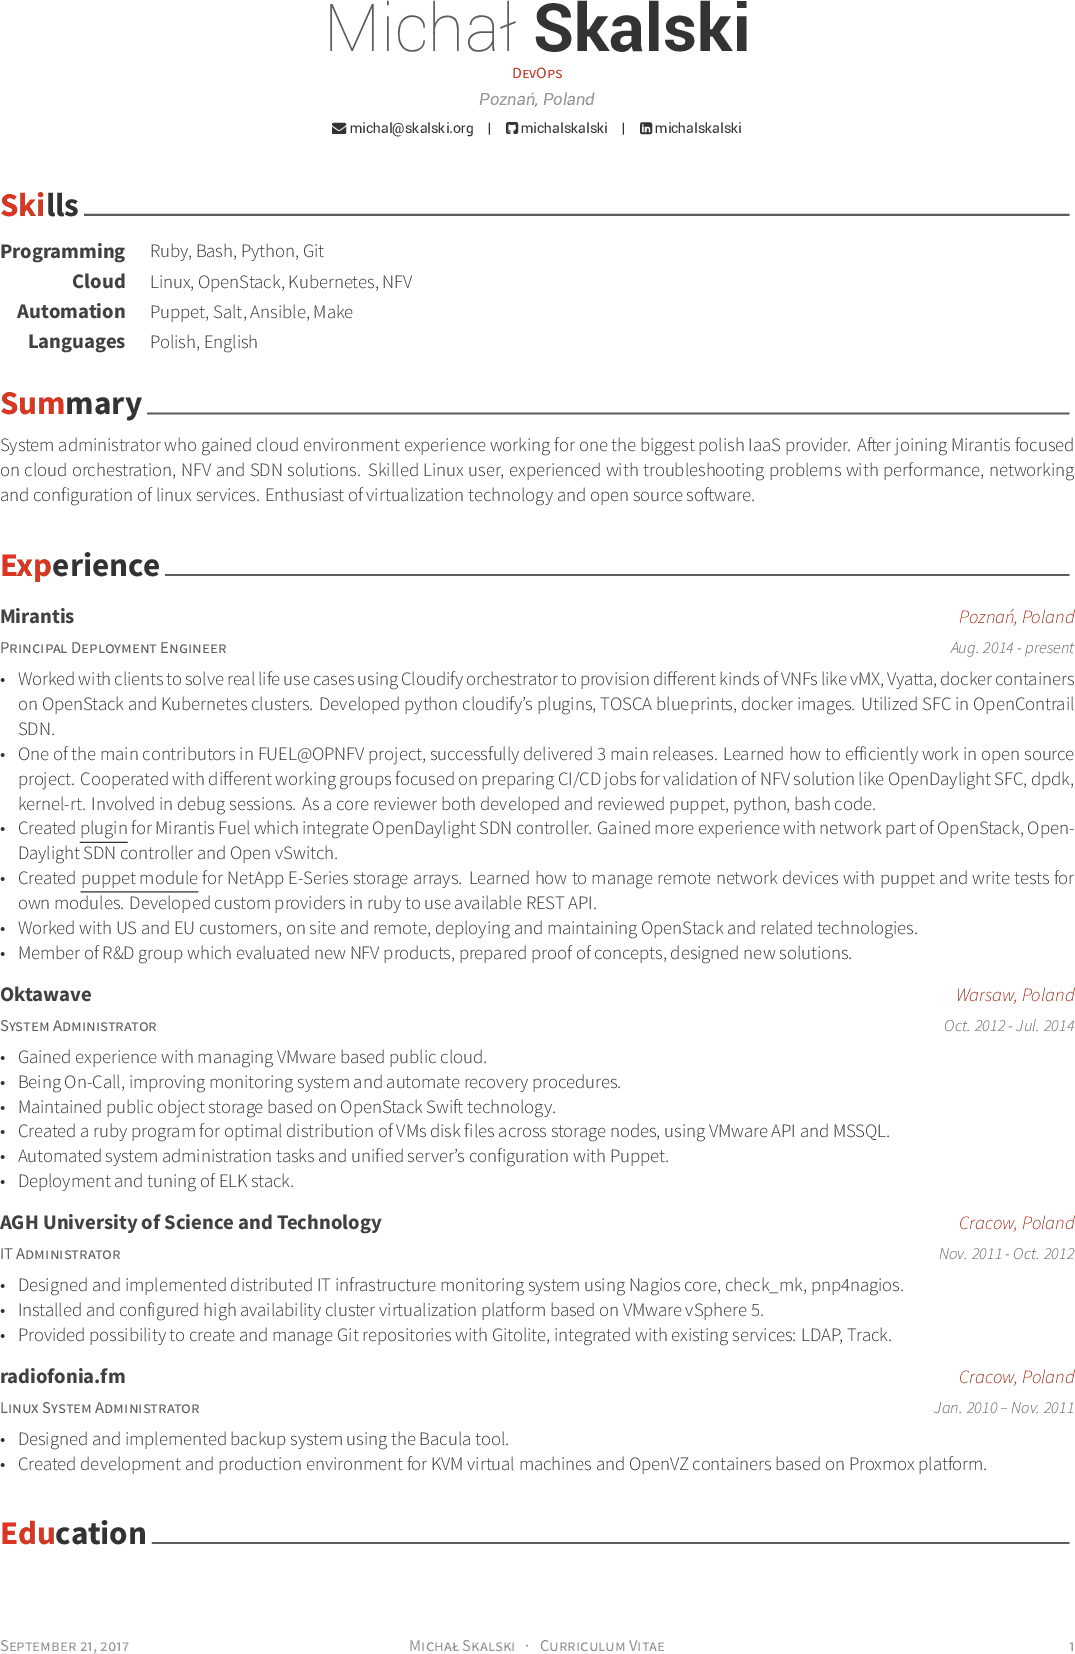
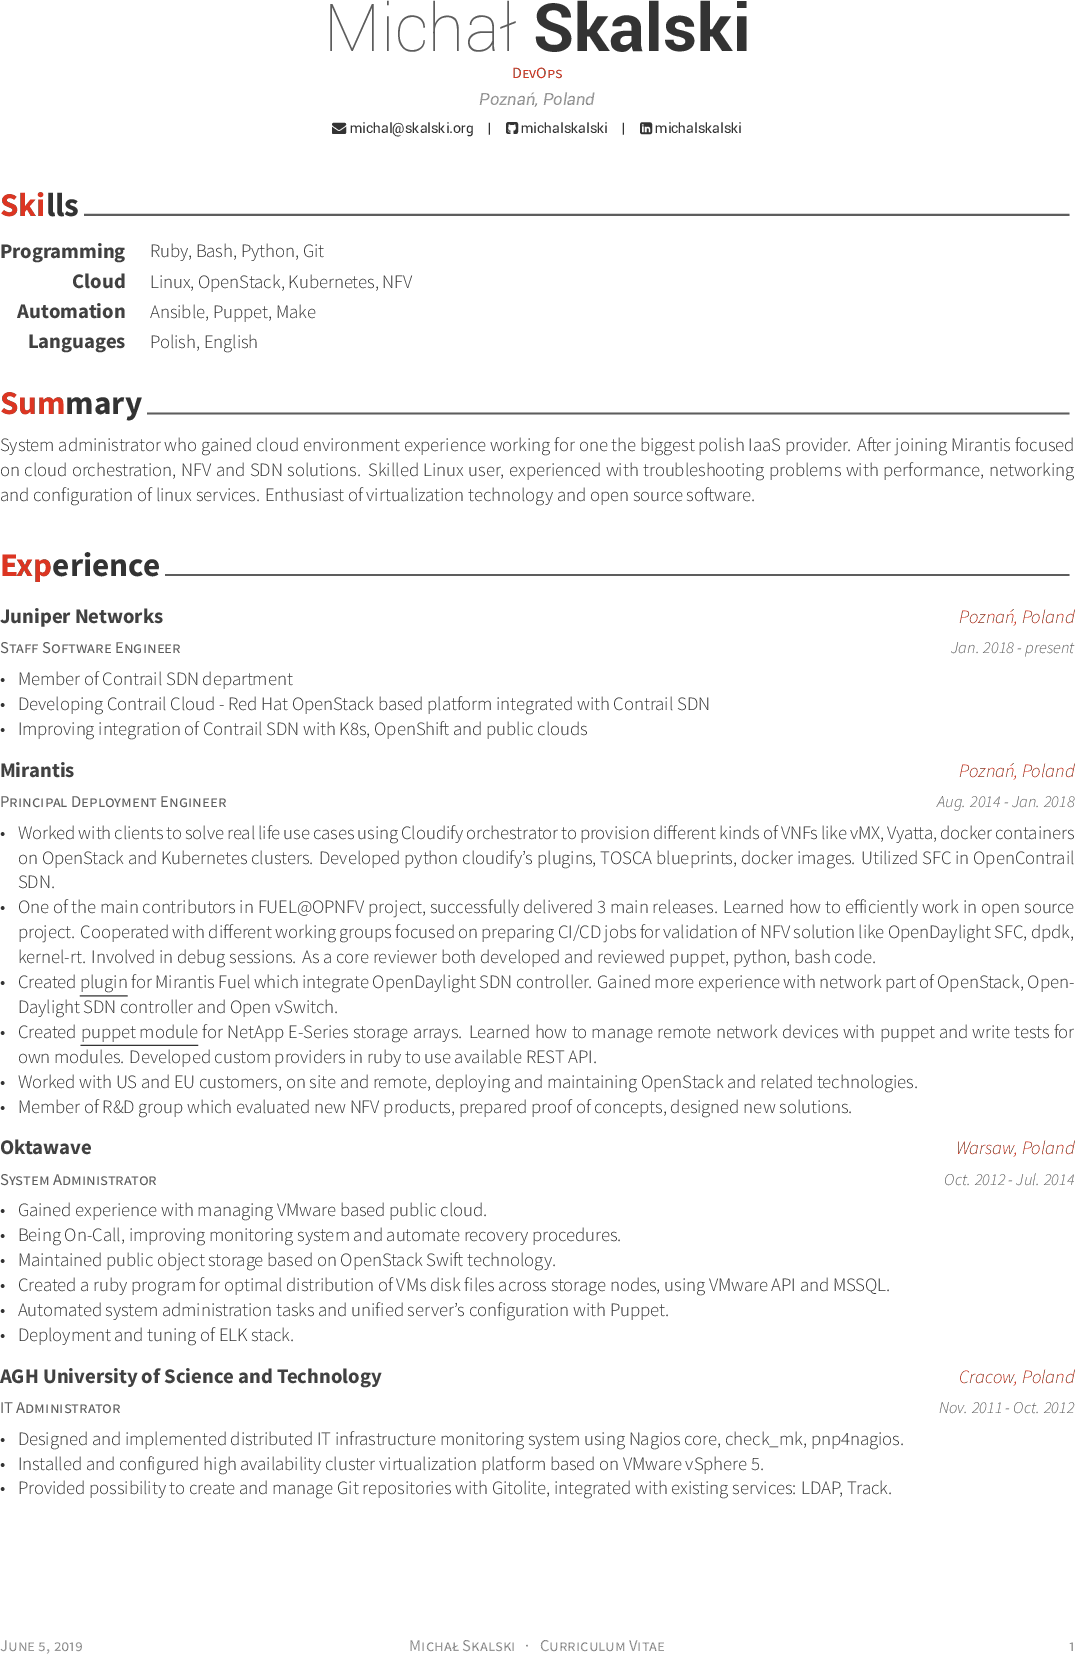
Juniper

diff --git a/examples/cv/experience.tex b/examples/cv/experience.tex
@@ -10,10 +10,26 @@
 
 %---------------------------------------------------------
   \cventry
+    {Staff Software Engineer} % Job title
+    {Juniper Networks} % Organization
+    {Poznań, Poland} % Location
+    {Jan. 2018 - present} % Date(s)
+    {
+      \begin{cvitems} % Description(s) of tasks/responsibilities
+        \item {Member of Contrail SDN department}
+        \item {Developing Contrail Cloud - Red Hat OpenStack based platform integrated with Contrail SDN }
+        \item {Improving integration of Contrail SDN with K8s, OpenShift and public clouds}
+      \end{cvitems}
+    }
+
+%---------------------------------------------------------
+
+%---------------------------------------------------------
+  \cventry
     {Principal Deployment Engineer} % Job title
     {Mirantis} % Organization
     {Poznań, Poland} % Location
-    {Aug. 2014 - present} % Date(s)
+    {Aug. 2014 - Jan. 2018} % Date(s)
     {
       \begin{cvitems} % Description(s) of tasks/responsibilities
         \item {Worked with clients to solve real life use cases using Cloudify orchestrator to provision different

diff --git a/examples/cv/presentation.tex b/examples/cv/presentation.tex
@@ -11,6 +11,18 @@
 
 %---------------------------------------------------------
   \cventry
+    {Co-Presenter} % Role
+    {EMEA Tech Fest} % Event
+    {Berlin, Germany} % Location
+    {Jul. 2018} % Date(s)
+    {
+      \begin{cvitems} % Description(s)
+        \item {Containers, PaaS and Public Cloud with Contrail}
+      \end{cvitems}
+    }
+
+%---------------------------------------------------------
+  \cventry
     {Presenter} % Role
     {OPNFV Summit} % Event
     {Berlin, Germany} % Location

diff --git a/examples/cv/skills.tex b/examples/cv/skills.tex
@@ -22,7 +22,7 @@
 %---------------------------------------------------------
   \cvskill
     {Automation} % Category
-    {Puppet, Salt, Ansible, Make} % Skills
+    {Ansible, Puppet, Make} % Skills
 
 %---------------------------------------------------------
   \cvskill
